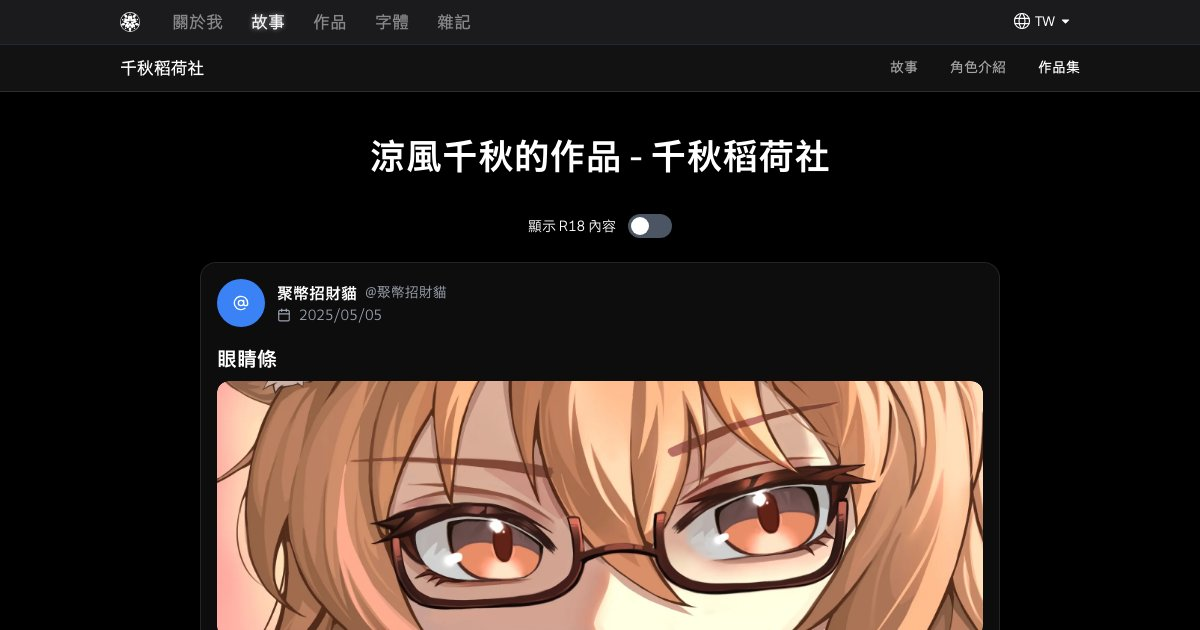
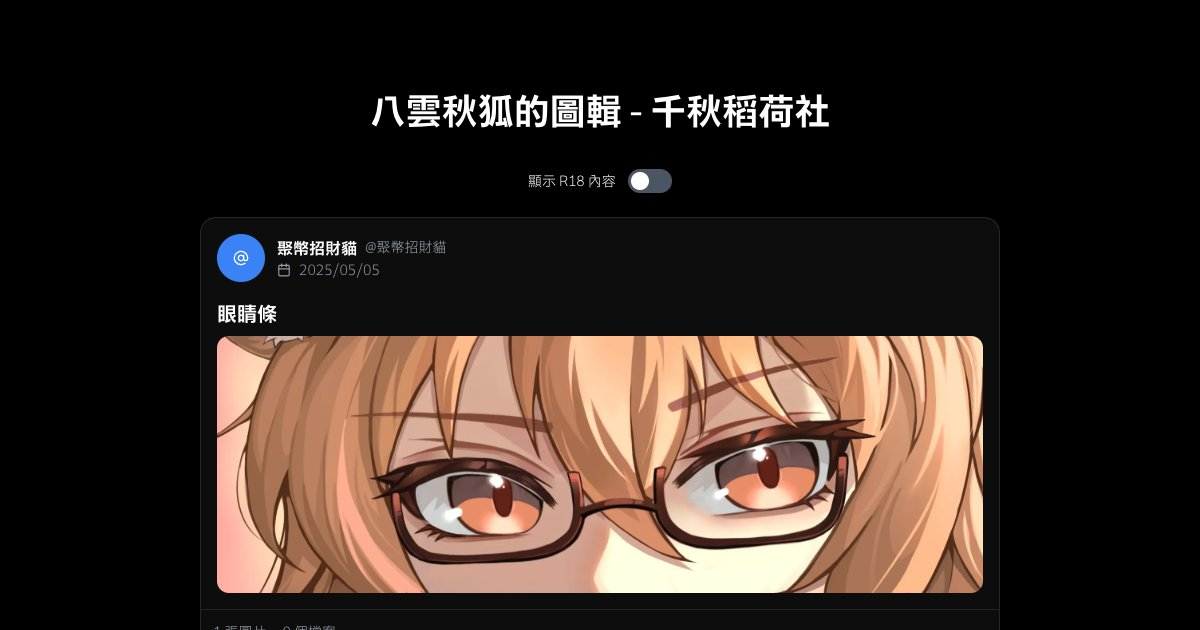
chore: crop OG images below top bar and regenerate

diff --git a/scripts/generateOgImages.js b/scripts/generateOgImages.js
@@ -20,6 +20,8 @@ const exportedImageDir = join(outputDir, 'og')
 const chromePath =
   process.env.CHROME_PATH ||
   '/Applications/Google Chrome.app/Contents/MacOS/Google Chrome'
+const OG_WIDTH = 1200
+const OG_HEIGHT = 630
 const sitePort = 4173
 const debugPort = 9222
 const captureDelay = Number(process.env.OG_CAPTURE_DELAY || 6000)
@@ -32,6 +34,7 @@ const pages = [
   ['/story/terminal', 'story-terminal'],
   ['/story/character', 'story-character'],
   ['/story/character/art', 'story-character-art'],
+  ['/character/chiaki', 'character-chiaki'],
   ['/works', 'works'],
   ['/works/chiakey', 'works-chiakey'],
   ['/works/kumiko', 'works-kumiko'],
@@ -40,7 +43,6 @@ const pages = [
   ['/works/tw-address-tools', 'works-tw-fuzzy-zipcode'],
   ['/works/tg-jpg', 'works-tg-jpg'],
   ['/works/tokyono-sora', 'works-tokyono-sora'],
-  ['/works/voicebank', 'works-voicebank'],
   ['/fonts', 'fonts'],
   ['/fonts/akitra', 'fonts-akitra'],
   ['/fonts/nixie', 'fonts-nixie'],
@@ -243,6 +245,20 @@ const waitForTerminalPortrait = async (browser) => {
   })
 }
 
+// Bottom edge of the fixed bars pinned to the top (TopBar, SubNav)
+const measureNavBottom = async (browser) => {
+  const { result } = await browser.send('Runtime.evaluate', {
+    returnByValue: true,
+    expression: `Math.ceil(Array.from(document.querySelectorAll('body *'))
+      .filter((element) => getComputedStyle(element).position === 'fixed')
+      .map((element) => element.getBoundingClientRect())
+      .filter((rect) => rect.height > 0 && rect.width >= window.innerWidth * 0.9 && rect.height < window.innerHeight / 3)
+      .sort((a, b) => a.top - b.top)
+      .reduce((bottom, rect) => (rect.top <= bottom + 1 ? Math.max(bottom, rect.bottom) : bottom), 0))`,
+  })
+  return result.value || 0
+}
+
 const capture = async () => {
   mkdirSync(imageDir, { recursive: true })
   mkdirSync(exportedImageDir, { recursive: true })
@@ -271,8 +287,8 @@ const capture = async () => {
     const browser = await createCdpClient(target.webSocketDebuggerUrl)
     await browser.send('Page.enable')
     await browser.send('Emulation.setDeviceMetricsOverride', {
-      width: 1200,
-      height: 630,
+      width: OG_WIDTH,
+      height: OG_HEIGHT,
       deviceScaleFactor: 1,
       mobile: false,
     })
@@ -288,11 +304,31 @@ const capture = async () => {
       await waitForRoute(browser, route)
       await waitForStableHero(browser)
       if (route === '/story/terminal') await waitForTerminalPortrait(browser)
+      const navBottom = await measureNavBottom(browser)
+      // Grow the viewport by the nav height so the card shows a full 1200×630 below the bars
+      if (navBottom) {
+        await browser.send('Emulation.setDeviceMetricsOverride', {
+          width: OG_WIDTH,
+          height: OG_HEIGHT + navBottom,
+          deviceScaleFactor: 1,
+          mobile: false,
+        })
+        await delay(800)
+      }
       const { data } = await browser.send('Page.captureScreenshot', {
         format: 'jpeg',
         quality: 85,
         fromSurface: true,
+        clip: { x: 0, y: navBottom, width: OG_WIDTH, height: OG_HEIGHT, scale: 1 },
       })
+      if (navBottom) {
+        await browser.send('Emulation.setDeviceMetricsOverride', {
+          width: OG_WIDTH,
+          height: OG_HEIGHT,
+          deviceScaleFactor: 1,
+          mobile: false,
+        })
+      }
       const image = Buffer.from(data, 'base64')
       writeFileSync(join(imageDir, `${filename}.jpeg`), image)
       writeFileSync(join(exportedImageDir, `${filename}.jpeg`), image)
